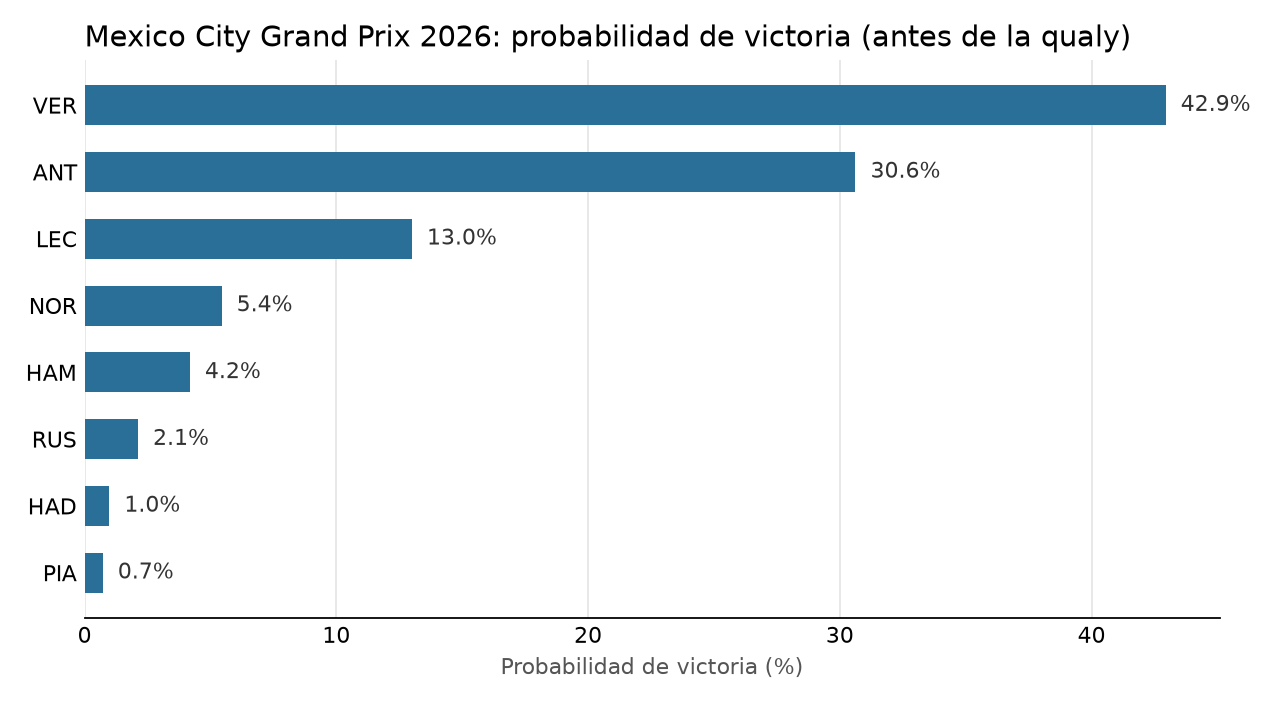
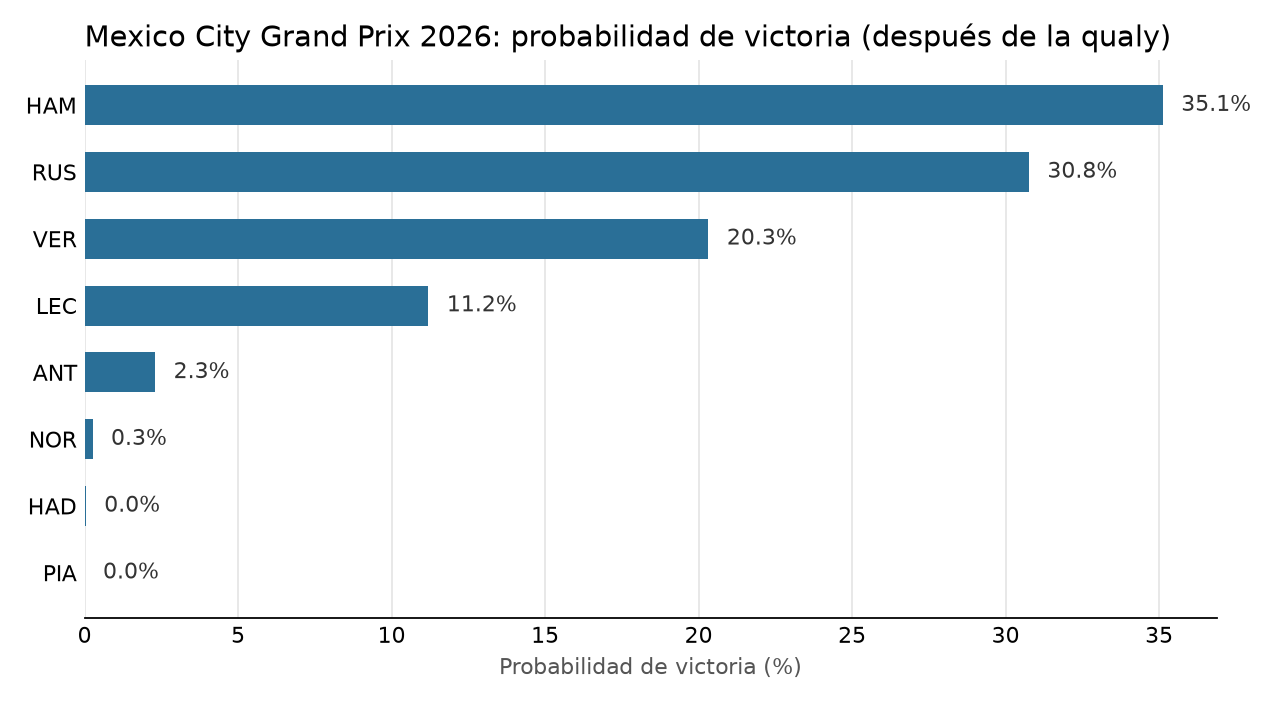
updated data
datos actualizados despues de la cualy

diff --git a/src/f1pred/cli.py b/src/f1pred/cli.py
@@ -11,12 +11,30 @@ from .features import add_upcoming, build_features
 RESULTS = Path("results")
 
 
-def _frame_for(history: pd.DataFrame, race: pd.Series) -> pd.DataFrame:
+def _parse_grid(text: str | None) -> dict[str, int]:
+    """Convierte "VER=5,ANT=4" en parrilla final tras sanciones."""
+    if not text:
+        return {}
+    pairs = (item.split("=") for item in text.split(","))
+    return {code.strip().upper(): int(slot) for code, slot in pairs}
+
+
+def _apply_grid(entrants: pd.DataFrame, grid: dict[str, int]) -> pd.DataFrame:
+    """La API da el orden de qualy; las sanciones de parrilla se indican a mano."""
+    unknown = set(grid) - set(entrants["code"])
+    if unknown:
+        raise SystemExit(f"--grid: pilotos desconocidos: {sorted(unknown)}")
+    return entrants.assign(grid=entrants["code"].map(grid).fillna(entrants["grid"]).astype(int))
+
+
+def _frame_for(history: pd.DataFrame, race: pd.Series, grid: dict[str, int] | None = None) -> pd.DataFrame:
     """Variables de una carrera; si es futura, toma los inscritos de la qualy ya disputada."""
     year, round_ = int(race["year"]), int(race["round"])
     if ((history["year"] == year) & (history["round"] == round_)).any():
         return build_features(data.enrich(history))
     entrants = data.fetch_qualifying(year, round_)
+    if not entrants.empty and grid:
+        entrants = _apply_grid(entrants, grid)
     if entrants.empty:
         entrants = history.loc[history["date"] == history["date"].max(), ["driver", "code", "team"]]
     fields = {k: race[k] for k in ("year", "round", "date", "race", "circuit", "lat", "lon")}
@@ -32,7 +50,7 @@ def cmd_predict(args) -> None:
     history = data.load_history(last=args.year)
     schedule = data.fetch_schedule(args.year)
     race = schedule[schedule["round"] == args.round].iloc[0] if args.round else _next_race(schedule, history)
-    frame = _frame_for(history, race)
+    frame = _frame_for(history, race, _parse_grid(args.grid))
     table_race, ranks, _, features = m.forecast(frame, args.year * 100 + int(race["round"]))
     table = m.summarize(table_race, ranks)
     mode = "después de la qualy" if "grid_pct" in features else "antes de la qualy"
@@ -49,7 +67,8 @@ def cmd_championship(args) -> None:
     schedule = data.fetch_schedule(args.year)
     done = history[history["year"] == args.year]["round"].max()
     left = schedule[schedule["round"] > done]
-    frames = [(_frame_for(history, r), args.year * 100 + int(r["round"]), bool(r["sprint"])) for _, r in left.iterrows()]
+    grid = _parse_grid(args.grid)
+    frames = [(_frame_for(history, r, grid if r["round"] == done + 1 else None), args.year * 100 + int(r["round"]), bool(r["sprint"])) for _, r in left.iterrows()]
     season = history[(history["year"] == args.year) & (history["position"] == 1)]
     table = championship.simulate_title(frames, data.fetch_standings(args.year), season["code"].value_counts().to_dict())
     print(table.head(8).to_string(index=False, float_format=lambda v: f"{v:.3f}"))
@@ -80,6 +99,8 @@ def main() -> None:
         command.set_defaults(handler=handler)
         if name == "predict":
             command.add_argument("--round", type=int)
+        if name in ("predict", "championship"):
+            command.add_argument("--grid", help='parrilla tras sanciones, p. ej. "VER=5,ANT=4"')
     args = parser.parse_args()
     args.handler(args)
 

diff --git a/src/f1pred/data.py b/src/f1pred/data.py
@@ -63,10 +63,15 @@ def fetch_schedule(year: int) -> pd.DataFrame:
     )
 
 
+def _code(driver: dict) -> str:
+    """Los reservas pueden no traer código en la API."""
+    return driver.get("code", driver["familyName"][:3].upper())
+
+
 def fetch_standings(year: int) -> pd.DataFrame:
     tables = _get(f"{BASE}/{year}/driverstandings.json")["StandingsTable"]["StandingsLists"]
     return pd.DataFrame(
-        {"driver": s["Driver"]["driverId"], "code": s["Driver"]["code"], "points": float(s["points"])}
+        {"driver": s["Driver"]["driverId"], "code": _code(s["Driver"]), "points": float(s["points"])}
         for s in tables[0]["DriverStandings"]
     )
 
@@ -135,7 +140,7 @@ def fetch_qualifying(year: int, round_: int) -> pd.DataFrame:
         times = [_seconds(q.get(k)) for k in ("Q1", "Q2", "Q3")]
         rows.append({
             "driver": q["Driver"]["driverId"],
-            "code": q["Driver"]["code"],
+            "code": _code(q["Driver"]),
             "team": q["Constructor"]["constructorId"],
             "grid": int(q["position"]),
             "quali_pos": int(q["position"]),

diff --git a/README.md b/README.md
@@ -6,17 +6,19 @@ Inspirado en [mar-antaya/2025_f1_predictions](https://github.com/mar-antaya/2025
 
 ![Pronóstico de México 2026](results/2026_19_rodriguez.png)
 
-## Último pronóstico: GP de la Ciudad de México, antes de la qualy
+## Último pronóstico: GP de la Ciudad de México, después de la qualy
 
-| Piloto | Equipo | Victoria | Podio |
-|---|---|---:|---:|
-| VER | Red Bull | 42.9% | 76.6% |
-| ANT | Mercedes | 30.6% | 72.7% |
-| LEC | Ferrari | 13.0% | 54.8% |
-| NOR | McLaren | 5.4% | 31.8% |
-| HAM | Ferrari | 4.2% | 26.8% |
+Parrilla real, con las sanciones de un puesto a Verstappen y Lawson por su contacto en FP2.
 
-Tómalo solo como referencia: el modelo previo a la qualy acierta poco y estas cifras son demasiado seguras. Vuelve a correr `f1pred predict` tras la qualy para usar la parrilla real. En el campeonato, Antonelli gana en prácticamente todas las simulaciones, con 123 puntos de ventaja y 125 en juego.
+| Piloto | Equipo | Salida | Victoria | Podio |
+|---|---|---:|---:|---:|
+| HAM | Ferrari | 1 | 35.1% | 76.6% |
+| RUS | Mercedes | 2 | 30.8% | 73.1% |
+| VER | Red Bull | 5 | 20.3% | 64.8% |
+| LEC | Ferrari | 3 | 11.2% | 54.7% |
+| ANT | Mercedes | 4 | 2.3% | 24.1% |
+
+En el campeonato, Antonelli gana en todas las simulaciones, con 123 puntos de ventaja y 125 en juego.
 
 ## Variables
 
@@ -49,6 +51,7 @@ En log-loss y Brier, menor es mejor. Solo 2026 (18 carreras): el modelo con qual
 uv venv --python 3.13 && uv pip install -e ".[dev]"
 .venv/bin/f1pred predict
 .venv/bin/f1pred predict --round 20
+.venv/bin/f1pred predict --grid "VER=5,ANT=4,LAW=9,LIN=8"  # sanciones de parrilla
 .venv/bin/f1pred championship
 .venv/bin/f1pred backtest
 .venv/bin/python -m pytest
